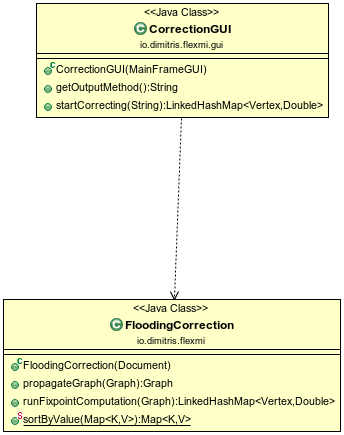
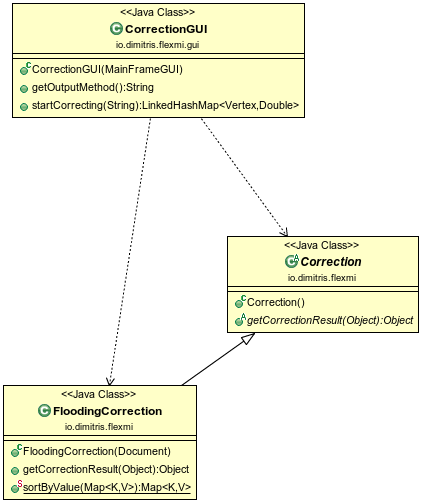
Edited Correction Module

diff --git a/io.dimitris.flexmi/src/io/dimitris/flexmi/FloodingCorrection.java b/io.dimitris.flexmi/src/io/dimitris/flexmi/FloodingCorrection.java
@@ -25,12 +25,11 @@ public class FloodingCorrection extends Correction {
 	
 	@Override
 	public Object getCorrectionResult(Object parameter) {
-		LinkedHashMap<Vertex, Double> fixpointResult = null;
 		Graph propagatedGraph = propagateGraph((Graph)parameter);
-		return null;
+		return runFixpointComputation(propagatedGraph);
 	}
 	
-	public Graph propagateGraph(Graph pairedNodesGraph){
+	private Graph propagateGraph(Graph pairedNodesGraph){
 		Graph propagateGraph =  new Graph();
 		
 		for(Vertex parentNode: pairedNodesGraph.getNodes()){
@@ -72,7 +71,7 @@ public class FloodingCorrection extends Correction {
 		return propagateGraph;
 	}
 	
-	public LinkedHashMap<Vertex, Double> runFixpointComputation(Graph propagatedGraph){
+	private LinkedHashMap<Vertex, Double> runFixpointComputation(Graph propagatedGraph){
 		LinkedHashMap<Vertex, Double> initialValueTable = new LinkedHashMap<Vertex, Double>();
 		for (Vertex eachNode: propagatedGraph.getNodes()){
 			initialValueTable.put(eachNode, 1.0);

diff --git a/io.dimitris.flexmi/src/io/dimitris/flexmi/gui/CorrectionGUI.java b/io.dimitris.flexmi/src/io/dimitris/flexmi/gui/CorrectionGUI.java
@@ -2,6 +2,7 @@ package io.dimitris.flexmi.gui;
 
 import graphtools.Graph;
 import graphtools.Vertex;
+import io.dimitris.flexmi.Correction;
 import io.dimitris.flexmi.ErrorCorrector;
 import io.dimitris.flexmi.FloodingCorrection;
 
@@ -66,9 +67,8 @@ public class CorrectionGUI extends JPanel {
 	
 	public LinkedHashMap<Vertex, Double> startCorrecting(String correctionMethod){
 		if (correctionMethod == "Simularity Flooding"){
-			FloodingCorrection flooding = new FloodingCorrection(parent.xmldocument);
-			Graph propagatedGraph = flooding.propagateGraph(parent.validationResult);
-			LinkedHashMap<Vertex, Double> fixpointResult = flooding.runFixpointComputation(propagatedGraph);
+			Correction flooding = new FloodingCorrection(parent.xmldocument);
+			LinkedHashMap<Vertex, Double> fixpointResult = (LinkedHashMap<Vertex, Double>)flooding.getCorrectionResult(parent.validationResult);
 			
 			return fixpointResult;
 		}

diff --git a/io.dimitris.flexmi/src/io/dimitris/flexmi/FuzzyCorrection.java b/io.dimitris.flexmi/src/io/dimitris/flexmi/FuzzyCorrection.java
@@ -261,10 +261,11 @@ public class FuzzyCorrection {
 						propagateGraph.addNode(edge.getSource());
 					}
 				}
+				if(!propagateGraph.containsNode(parentNode)){
+					propagateGraph.addNode(parentNode);
+				}
 			}
-			if(!propagateGraph.containsNode(parentNode)){
-				propagateGraph.addNode(parentNode);
-			}
+			
 		}
 		
 		for(Vertex parentNode: propagateGraph.getNodes()){

diff --git a/io.dimitris.flexmi/src/io/dimitris/flexmi/TestJava.java b/io.dimitris.flexmi/src/io/dimitris/flexmi/TestJava.java
@@ -21,7 +21,7 @@ public class TestJava {
 		EPackage ePackage = (EPackage) metamodelResource.getContents().get(0);
 		
 		Element root = new Element("A");
-		Element child1 = new Element("G");
+		Element child1 = new Element("B");
 		Element child2 = new Element("C");
 //		Element child1_1 = new Element("D");
 //		child1.addContent(child1_1);
